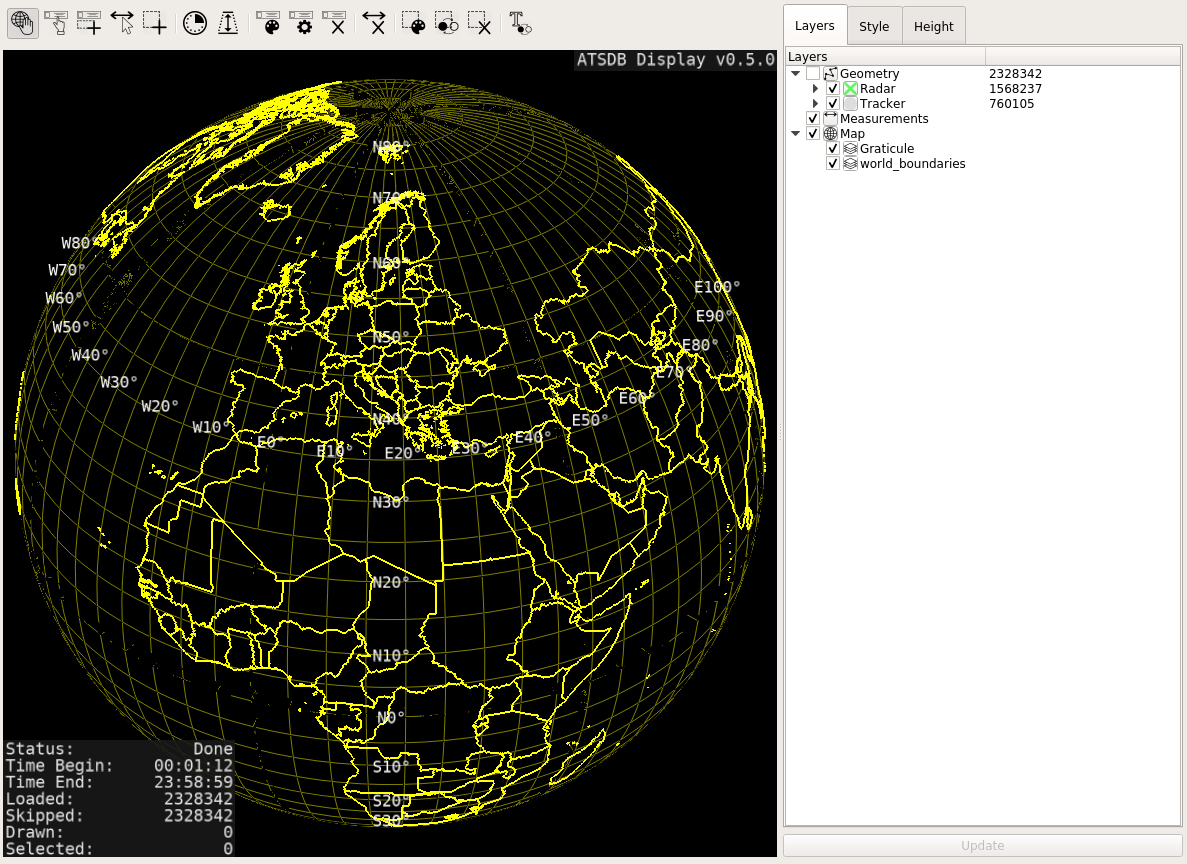
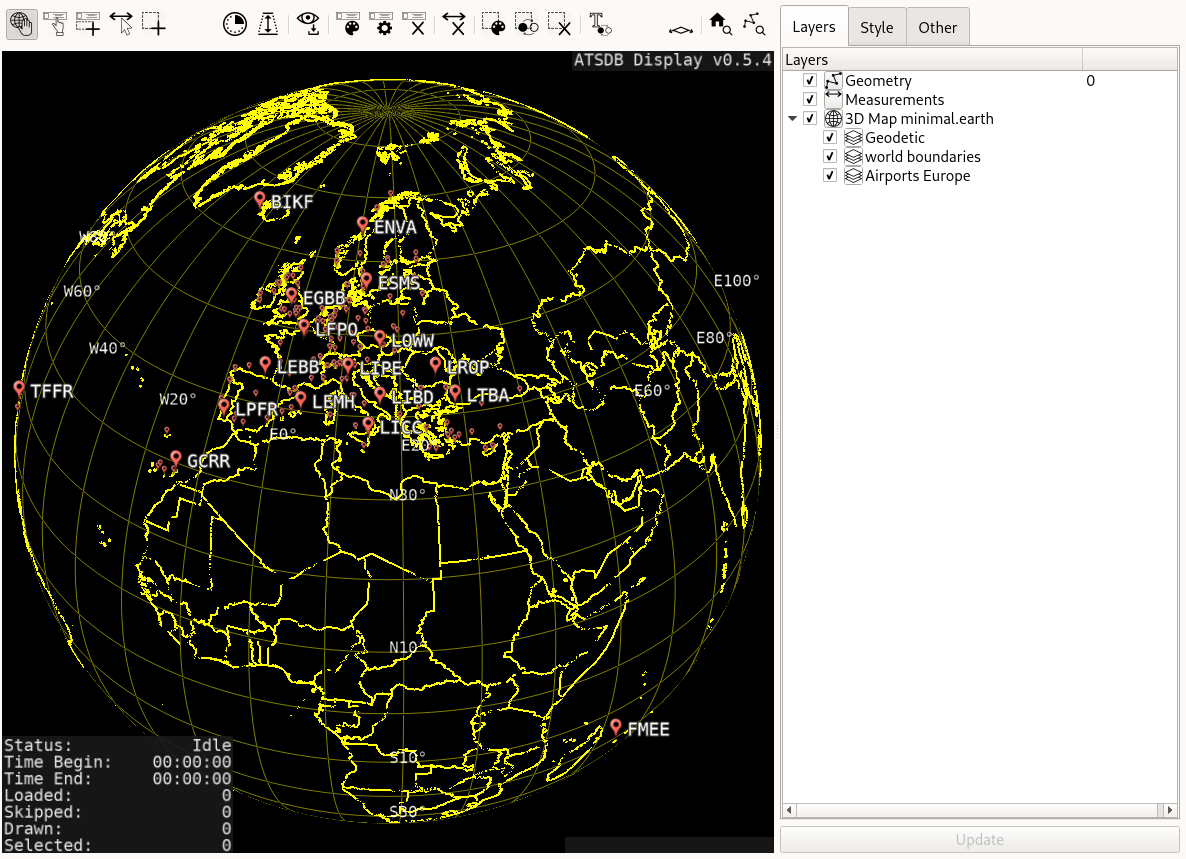
doc update

Changed region(s): [[0.0, 0.0, 0.9983, 0.9988], [0.0, 0.8475, 0.0936, 0.9988], [0.1248, 0.3632, 0.156, 0.3935]]

diff --git a/doc/user_manual/osg_others_tab.tex b/doc/user_manual/osg_others_tab.tex
@@ -1,0 +1,117 @@
+\subsection{Others Tab}
+
+\begin{figure}[H]
+   \center
+    \includegraphics[width=9cm,frame]{../screenshots/osgview_others_tab.png}
+  \caption{OSG View Others tab}
+\end{figure}
+
+In the 'Others' tab, several elements exist:
+
+\begin{itemize}
+ \item Height: Defines if and how height information is used.
+ \item Ground speed: Defines if and how ground speed information is used.
+ \item Defines if and how position accuracy information is used.
+ \item Radar Default Accuracies: Defines Radar default accuracies.
+ \item Update button: Triggers a redraw or reload of the geometry, becomes available after a change if needed.
+\end{itemize} 
+
+\subsubsection{Height}
+\label{sec:others_height}
+
+Per default, a target reports height is not used for display, which is common in current air-traffic displays. However, in certain situation a true 3D display might be of interest to a user, and therefore several options where incorporated:
+
+\begin{itemize}
+ \item Use Height: Use the height based on Mode C $h_c$, transformed to meters
+ \item Offset Factor: If height information is used, this factor $h_o$ is added to the height
+ \item Scale Factor: If height information is used, this factor $h_s$ is used to multiply the height
+ \item Null Offset: If height information is used, this factor $h_n$ is used for target reports without height information
+\end{itemize}
+\ \\
+
+Generally, if no height information is given (no Mode C code), the height is either $0$ or the height offset (if used). That means that those target reports appear to the on the ground. If connection lines are drawn between the ones in the air and those without, a lot of annoying lines are shown. \\
+
+The formula to calculate the height (if existing) is as follows: 
+
+$$ h = h_o + h_s \cdot h_c [m]$$ 
+
+If no height information is given:
+
+$$ h = h_n [m]$$ 
+
+Please note that upon changes to the height usage, a manual redraw has to be performed using the 'Redraw' button.
+
+
+\begin{figure}[H]
+    \hspace*{-2.5cm}
+    \includegraphics[width=19cm,frame]{../screenshots/osgview_use_height.png}
+  \caption{OSG View use height}
+\end{figure} 
+
+\subsubsection{Ground Speed}
+\label{sec:others_ground_speed}
+
+\begin{itemize}
+ \item Load Ground Speed Variables: Defines if ground speed variables should be loaded from the database. Must be enabled to enable display of ground speed vectors.
+ \item Ground Speed Period [s]: Length of ground speed vectors, in seconds.
+\end{itemize}
+\ \\
+
+If loading is enabled (possible re-load required) the ground speed vectors can be shown using \nameref{sec:geometry_operations}:
+
+\begin{figure}[H]
+    \hspace*{-2.5cm}
+    \includegraphics[width=19cm,frame]{../screenshots/osgview_groundspeed_vectors.png}
+  \caption{OSG View groundspeed vectors}
+\end{figure} 
+
+\subsubsection{Position Accuracy}
+\label{sec:others_position_accuracy}
+
+\begin{itemize}
+ \item Load Position Accuracy Variables: Defines if position accuracy variables should be loaded from the database. Must be enabled to enable display of position accuracy ellipses.
+ \item Position Accuracy Scale [sigma]: Size of accuracy ellipses, defined in standard deviations:
+ \begin{itemize}
+    \item 1.0 $\sigma$: 68.268 \%
+    \item 1.5 $\sigma$: 86.638 \%
+    \item 2.0 $\sigma$: 95.44 \%
+    \item 2.5 $\sigma$: 98.75 \%
+    \item 3.0 $\sigma$: 99.73 \%
+    \item 3.5 $\sigma$: 99.95 \%
+    \item 4.0 $\sigma$: 99.9936 \%
+    \item 4.5 $\sigma$: 99.999320 \%
+    \item 5.0 $\sigma$: 99.99994266 \%
+\end{itemize}  
+\end{itemize}
+\ \\
+
+If loading is enabled (possible re-load required) the position accuracy ellipses can be shown using \nameref{sec:geometry_operations}:
+
+\begin{figure}[H]
+    \hspace*{-2.5cm}
+    \includegraphics[width=19cm,frame]{../screenshots/osgview_accuracy_ellipses.png}
+  \caption{OSG View position accuracy ellipses}
+\end{figure} 
+
+How the position accuracy ellipses are generated is defined in \nameref{sec:algo_position_accuracy_ellipses}.
+
+\subsubsection{Radar Default Accuracies}
+\label{sec:others_radar_default_accuracies}
+
+In the following items, the default Radar accuracies can be set:
+
+\begin{itemize}
+ \item Primary Azimuth StdDev [deg]:
+ \item Primary Range StdDev [m]:
+ \item Secondary Azimuth StdDev [deg]:
+ \item Secondary Range StdDev [m]:
+ \item Mode S Azimuth StdDev [deg]:
+ \item Mode S Range StdDev [m]:
+ \item Use Radar Minimum StdDev:
+\end{itemize}
+\ \\
+
+These values are only used if the associated data source does not have custom accuracy values set (see \nameref{sec:task_manage_datasources_table_content}). \\
+
+How the Radar default accuracies are used is defined in \nameref{sec:algo_position_accuracy_ellipses}.
+

diff --git a/doc/user_manual/task_manage_datasources.tex b/doc/user_manual/task_manage_datasources.tex
@@ -29,6 +29,32 @@ On the right hand side, available synchronization actions are shown. They can be
 
 At the bottom, the data sources as existing in the currently opened database are shown and can also be edited, as well as synchronized to the configuration. \\
 
+\paragraph {Data Sources Table Content}
+\label{sec:task_manage_datasources_table_content}
+
+\begin{itemize}  
+\item ID: Number indentifier (unique)
+\item Name: Name of the data source
+\item Short Name: Short name of the data source (optional)
+\item SAC: System Area Code, number between [0,255]
+\item SIC: System Identification Code, number between [0,255]
+\item Required for Radars only:
+\begin{itemize}  
+\item Latitude: Source center position as WGS-84 latitude, in degrees
+\item Longitude: Source center position as WGS-84 longitude, in degrees
+\item Altitude: Source center altitude above MSL, in meters
+\end{itemize}
+\item For Radars only (optional):
+\begin{itemize}  
+\item Primary Azimuth StdDev: PSR azimuth standard deviation, in degrees
+\item Primary Range StdDev: PSR range standard deviation, in meters
+\item Secondary Azimuth StdDev: SSR azimuth standard deviation, in degrees
+\item Secondary Range StdDev: SSR range standard deviation, in meters
+\item Mode S Azimuth StdDev: Mode S Radar azimuth standard deviation, in degrees
+\item Mode S Range StdDev: Mode S Radar range standard deviation, in meters
+\end{itemize}
+\end{itemize}
+\ \\
 
 \subsection{Editing Database Data Sources}
 

diff --git a/doc/user_manual/osg_data_widget.tex b/doc/user_manual/osg_data_widget.tex
@@ -172,7 +172,7 @@ These associations are gradient-coloured from the color of the system track upda
 
 \subsubsection{Distance Measurement}
 
-Distance measurements can be made when the Measure mode \includegraphics[width=0.5cm,frame]{../../data/icons/measure_action.png} is active. If 'Use height' is not checked, measurements are done as follows:
+Distance measurements can be made when the Measure mode \includegraphics[width=0.5cm,frame]{../../data/icons/measure_action.png} is active. If 'Use height' (section \nameref{sec:others_height}) is not checked, measurements are done as follows:
 
 Simply do a LMB click on a target report or a position on the map to start the measurement.
 
@@ -198,7 +198,7 @@ Then do a second LMB click on the map on a point of interest to finish the measu
   \caption{OSG View measurement done}
 \end{figure}
 
-If 'Use height' is checked, measurements are calculated in the same way as previously (ground distance), but for each target report with height a connecting line to the respective ground position is displayed. \\
+If 'Use height' (section \nameref{sec:others_height}) is checked, measurements are calculated in the same way as previously (ground distance), but for each target report with height a connecting line to the respective ground position is displayed. \\
 
 For a measurement between two target reports with height information, the measurement will be displayed as follows:
 

diff --git a/doc/user_manual/osg_layers_geo_ops.tex b/doc/user_manual/osg_layers_geo_ops.tex
@@ -53,6 +53,22 @@ If height information is used, the following operations exist:
 \end{itemize} 
 
 
+\paragraph{Ground Speed Vector Operations}
+If ground speed information is loaded (see \nameref{sec:others_ground_speed}), the following operations exist:
+
+\begin{itemize}
+ \item Show Ground Speed Vectors: Shows ground speed vectors for all target reports in the group.
+ \item Clear Ground Lines: Clears ground speed vectors for all target reports in the group.
+\end{itemize} 
+
+\paragraph{Position Accuracy Ellipses Operations}
+If position accuracy information is loaded (see \nameref{sec:others_position_accuracy}), the following operations exist:
+
+\begin{itemize}
+ \item Show Position Accuracy Ellipses: Shows position accuracy ellipses for all target reports in the group.
+ \item Clear Position Accuracy Ellipses: Clears position accuracy ellipses for all target reports in the group.
+\end{itemize} 
+
 \paragraph{Special Root Geometry Layer Operations}
 This layer has special operation present:
 

diff --git a/doc/user_manual/intro_acknowledgements.tex b/doc/user_manual/intro_acknowledgements.tex
@@ -21,6 +21,17 @@ The following libraries are used in the project (list not exhaustive):
 \end{itemize}
 \ \\
 
+Additionally, map data from the following sources was used:
+\begin{itemize}  
+\item Minimal map country borders \url{thematicmapping.org}
+\item Minimal detailed Map
+\begin{itemize} 
+\item Country borders \url{https://ec.europa.eu/eurostat/web/gisco/geodata/reference-data/administrative-units-statistical-units/countries}
+\item Rivers \& lakes \url{https://www.eea.europa.eu/data-and-maps/data/wise-large-rivers-and-large-lakes}
+\end{itemize}
+\item Airports \url{https://ec.europa.eu/eurostat/web/gisco/geodata/reference-data/transport-networks}
+\end{itemize}
+\ \\
 Many thanks to the developers of those. Your work is awesome.
 
 \subsection{Contributors}

diff --git a/doc/user_manual/osg_config_panel.tex b/doc/user_manual/osg_config_panel.tex
@@ -10,7 +10,7 @@ There exist 3 tabs:
 \begin{itemize}
  \item Layers: Allows configuration what data is shown, and access to the map and measurement functions
  \item Style: Allows configuration how data is shown
- \item Height: Allows configuration of the height usage in the shown geometry
+ \item Others: Allows configuration of the height usage in the shown geometry
 \end{itemize}
 \ \\
 
@@ -18,4 +18,4 @@ Additionally, at the bottom the 'Update' button allows redraw/reloading of the g
 
 \subfile{osg_layers_tab}
 \subfile{osg_style_tab} 
-\subfile{osg_height_tab} 
+\subfile{osg_others_tab} 

diff --git a/doc/user_manual/osg_layers_map_ops.tex b/doc/user_manual/osg_layers_map_ops.tex
@@ -49,7 +49,7 @@ As supplied in the osgEarth example files, this map data is obtained from ArcGIS
 \newpage
 \paragraph{Minimal Map}
 
-This minimal map shows national borders based on an ESRI shapefile, provided by Bjorn Sandvik on \url{thematicmapping.org}.
+This minimal map shows national borders based on an ESRI shapefile, provided by Bjorn Sandvik on \url{thematicmapping.org} and European airports, provided by \url{https://ec.europa.eu/eurostat/web/gisco/geodata/reference-data/transport-networks}.
 
 \begin{figure}[H]
     \hspace*{-2.5cm}

diff --git a/doc/user_manual/install_prerequisites.tex b/doc/user_manual/install_prerequisites.tex
@@ -6,7 +6,7 @@ The binary will currently only be provided to (somewhat current) Linux 64-bit op
 
 \begin{itemize}  
 \item CentOS 7.3
-\item Ubuntu 14.04, 16.04, 17.04, 18.04, 19.04, 20.4
+\item Ubuntu 14.04, 16.04, 17.04, 18.04, 19.04, 20.04
 \item Linux Mint 18.3
 \end{itemize}
 \ \\

diff --git a/doc/user_manual/user_manual.tex b/doc/user_manual/user_manual.tex
@@ -225,7 +225,7 @@
 \begin{center}
 \normalsize\textsf{by Helmut Puhr}\par
 \medskip
-\normalsize\textsf{Version 0.5.3 Update1 \textit{Musty Mammoth}}\par
+\normalsize\textsf{Version 0.5.4 \textit{Naughty Narwhal}}\par
 \end{center}
 \vspace*{\fill}
 \begin{center}
